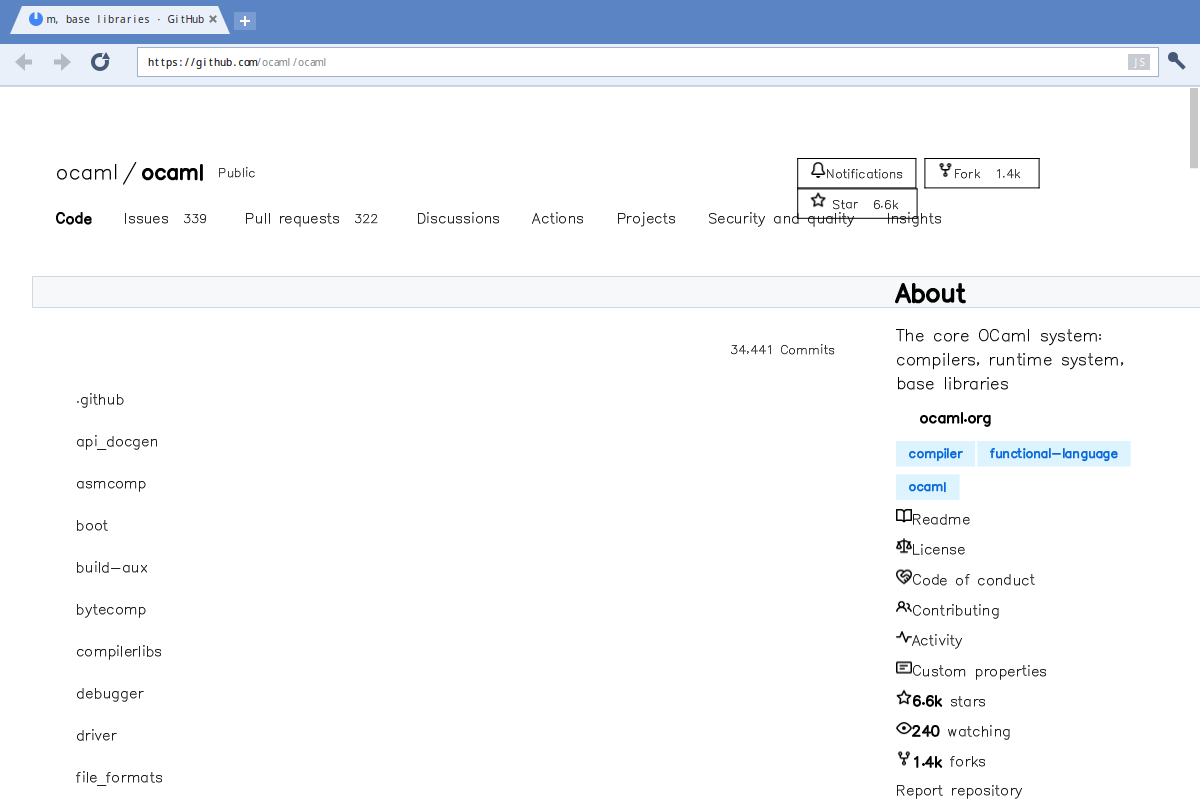
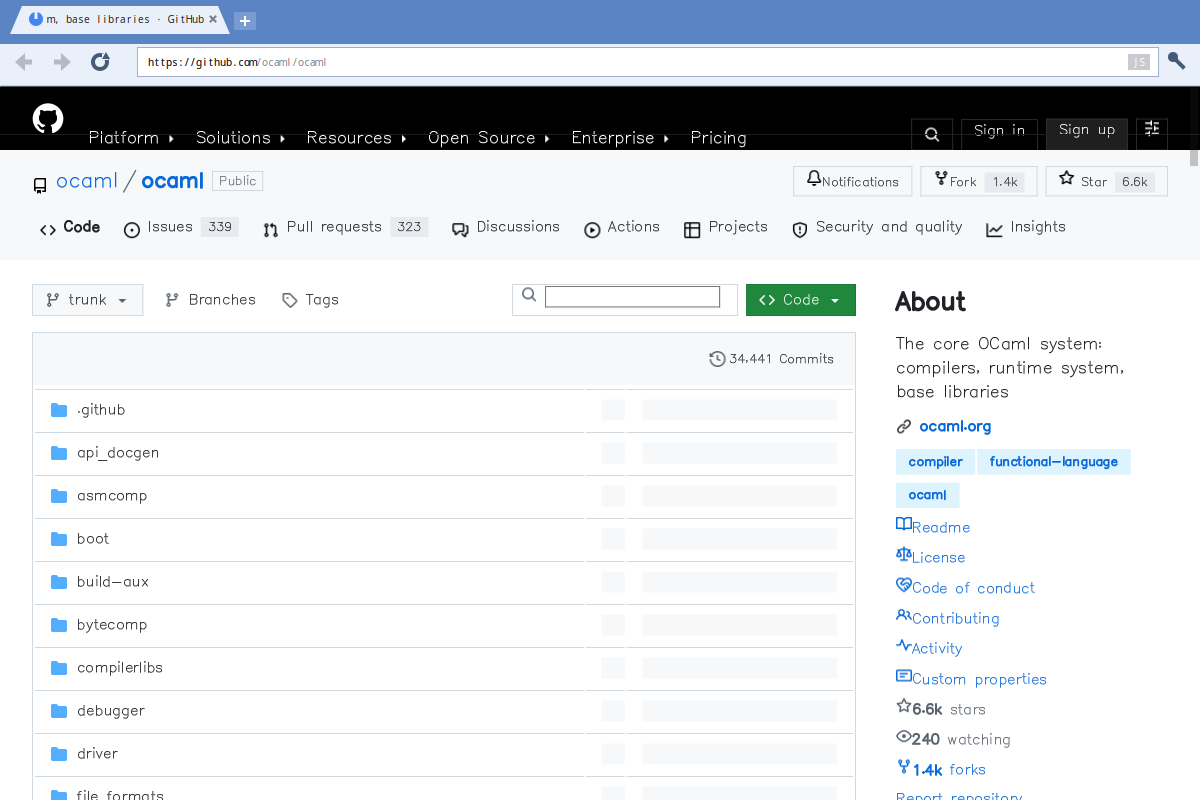
GitHub's repository page drawn right; Css_census, a Styles pane in a terminal
docs/plans/plan_sites.md, step 1. What was wrong, each shown first on
a page of ten lines:

- a custom property's name was put in lower case (--bgColor-default,
  never found by var(--bgColor-default)): the top bar, the borders,
  the links' colour, the table of files
- a float that fits its line to the last bit of a sum was put under
- a flex item's max-width in percents was asked again, of itself
- a width in percents inside what is being measured took the room: a
  flex item's (the branch's button), a form control's (the search)
- an svg or an img that is a flex or grid item was an empty box
- a colour's opacity was mixed with white (#ffffff1f on a black bar)
- a flex item's content minimum is kept under its max-width (README)

scripts/css/Css_census.exe: what a saved page's sheets ask that the
engine does not do; and at=SELECTOR, an element's winning rules and
what its style and its ancestors' come to.

plan_sites.md: progress, and a first look at YouTube and Gmail with
their scripts (what stops each).

diff --git a/docs/sites.md b/docs/sites.md
@@ -25,8 +25,8 @@ then look at the pictures and correct the rows.
 
 | | Sites | |
 |---|---|---|
-| 🟢 | 8 of 17 | the web of the 1990s, the text-only sites, Hacker News, Wikipedia |
-| 🟡 | 6 of 17 | DuckDuckGo, Lobsters, GitHub, Berkshire Hathaway, BBC News: readable, not right; tinybox: it runs, slowly |
+| 🟢 | 9 of 17 | the web of the 1990s, the text-only sites, Hacker News, Wikipedia, GitHub |
+| 🟡 | 5 of 17 | DuckDuckGo, Lobsters, Berkshire Hathaway, BBC News: readable, not right; tinybox: it runs, slowly |
 | 🔴 | 3 of 17 | one that does not load (TLS 1.2 only), one that asks every visitor to sign in, and Google: its page shows, a search does not |
 
 By part, what holds the most sites back, the worst first:
@@ -61,7 +61,7 @@ Oldest web first, then by how much they ask.
 | **DuckDuckGo** (the HTML results) | 🟡 | 🟢 searched from the omnibox; its own form not tried | 🟢 | 🟢 | 🟡 the header's logo, field and filters overlap; the results are readable | 🟢 | ⚪ |
 | **Google** | 🔴 the home page shows, a search does not | 🔴 a query can be typed and sent, and the consent page answered (a form posted, its cookie kept); then a page of script only | 🟢 | 🟢 | 🟢 flexbox | 🟢 | 🔴 a search answers our browser with a challenge: an obfuscated program (63 KB) that must compute a token before any result is sent. It loads and runs here without an error, and gives no token. Said to be an old Opera Mini, the browser was sent plain results by one path (the consent refused) and a 403 by the other (accepted): tried, and taken out (`Browser_agent.mli`) |
 | **old.reddit.com** | 🔴 a blank page | 🔴 | 🟡 redirected to a sign-in page: every visitor not signed in is, a real browser's too (curl with Chrome's name: the same 302) | ? | 🔴 nothing shows | ? | 🔴 not run |
-| **GitHub** (a repository) | 🟡 | 🟢 the files, the About pane beside them, the tabs and the README can be read and followed | 🟢 24 requests | 🟢 | 🟡 the page's two columns are right (its `@media (width >= 48rem)`); the top bar is blank, the branch button an empty bar, the files have no icon, message or date | 🟢 | 🟡 with `scripts=github.com` its modules load through the page's import map and run (107 files); three then stop on what is not here (custom elements with a shadow tree, a `DataView` over a typed array), and each file's last commit, which they fetch, does not come |
+| **GitHub** (a repository) | 🟢 | 🟢 the files, the About pane beside them, the tabs and the README can be read and followed | 🟢 34 requests | 🟢 | 🟢 as Chrome draws it with scripts off (2026-10-04): the dark top bar, the tabs and buttons with their icons, the branch's bar, the files with theirs, the README in its box. Not there: rounded corners, each file's last commit (its scripts') | 🟢 | 🟡 with `scripts=github.com` its modules load through the page's import map and run (107 files); three then stop on what is not here (custom elements with a shadow tree, a `DataView` over a typed array), and each file's last commit, which they fetch, does not come |
 | **BBC News** | 🟡 | 🟢 the front page reads as one: the lead, the rows of stories, the side column, each a link | 🟢 23 requests | 🟢 | 🟡 its grid of twelve columns is right (`grid-column: 1 / span 4`), the menu folded (`<details>`); the "LIVE" badge is over its headline, the page not centred | 🟢 | 🟡 with `scripts=www.bbc.com,static.files.bbci.co.uk` its fifty files all parse and load (6 s of CPU), and React then fails to take the page over (styled-components wants a style sheet's object): nothing lost, the page came whole. Its pictures are WebP, and show (`libs/images`) |
 | **tinybox** (the Playground's menu and games: OCaml compiled to JavaScript by js_of_ocaml, a page that is one `<svg>` redrawn each frame) | 🟡 | 🟡 the menu answers to the keys and the mouse, a game opens and is played; five frames a second where a browser gives sixty, so a key tapped between two can be missed, and the games' sound has gaps | 🟢 | 🟢 | 🟢 a fixed svg, 100% of the window | 🟢 the Playground's own letters | 🟡 931 KB of script run with no error, slowly (170 ms a frame); no canvas (the code map's panel, bitmaps), no bytes from a request |
 

diff --git a/docs/plans/plan_sites.md b/docs/plans/plan_sites.md
@@ -160,6 +160,69 @@ what a site sends for it (`Browser_agent`'s table and its reasons).
 
 Not planned: ChatGPT, Gmail, YouTube's video, chess.com's board.
 
+## Progress
+
+**2026-10-04, step 1: GitHub's repository page is drawn right**,
+scripts off (`docs/screenshots/github.png`). The census tool is
+`scripts/css/Css_census.exe`; its second mode (`at=SELECTOR`: an
+element's winning rules, and what its style and its ancestors' come
+to) is what found each fault. None was a missing property:
+
+- a custom property's name was put in lower case (`--bgColor-default`
+  never found by `var(--bgColor-default)`): the top bar, the borders,
+  the links' colour, the table;
+- six faults of layout, each shown first on a page of ten lines
+  (`changes.txt`): a float's fit to the last bit, a percent
+  `max-width` asked of the item itself, percents inside what is being
+  measured (a button, a field), an svg as a flex item, a colour's
+  opacity, a flex item's minimum over its maximum.
+
+The census's own list (`order`, `:has()`, `clip-path`,
+`text-overflow`, `@container`, `color-mix()`) was not needed for this
+page: to do when a page shows the lack. A saved copy of the page with
+its sheets beside it, served by `mini-httpd`, is the bench: the real
+site's sheets are refused to a page of another origin.
+
+**2026-10-04, YouTube and Gmail, a first look with their scripts.**
+Asked for as the aim, however far: two sites used by everybody are
+the best bench a browser has. What was learned in an evening:
+
+- *YouTube's page can be run without a window*: its nine scripts put
+  in the page (12 MB, the main one 10.8 MB) are read and run by
+  `scripts/js/Page_scripts.exe` in 5.4 s. The engine's speed is not
+  what stops it first.
+- *What stops it* is the first of a long chain, each found only once
+  the one before is passed: `NodeFilter`, `CSSStyleSheet` and its
+  `replaceSync`, then the polyfill of web components patching
+  prototypes we do not have (`HTMLSlotElement`), then Polymer itself.
+  Of the names its bundles use, 49 are not defined here; the ones
+  that matter: `CustomElementRegistry`, `Request`, `Response`,
+  `ReadableStream`, `MessageChannel`, `Worker`, `MediaSource`,
+  `IntersectionObserverEntry`, `DOMException`, `History`.
+- *The page is its custom elements*: `<ytd-app>` and hundreds under
+  it, each a class given to `customElements.define`, with a shadow
+  tree or Polymer's emulation of one. Without them nothing is drawn
+  but the skeleton the server sends. So the road is, in order:
+  **custom elements** (the registry, an element upgraded when its
+  name is defined, its callbacks when it enters the page), **shadow
+  trees** (`attachShadow`, slots, the tree the layout sees made of
+  both), **templates** (`<template>`'s content, cloned), **observers
+  that observe**. GitHub's own elements and 9fans.topicbox need the
+  first three too: it is the same work, and the next one to do.
+- *Then the video*, which is another matter (Media Source Extensions
+  and a decoder of VP9 or AV1): the application drawn with its
+  thumbnails and titles is the mark to aim at; the player is not.
+- *Gmail*: Google's sign-in page is drawn with its scripts (the
+  address's field, Next). What comes after an address is typed was
+  not tried: it needs an account, and is where Google decides
+  whether it knows the browser.
+
+A way to work that does not cost the budget: what a web API is
+that needs nothing of the engine's insides is written in JavaScript
+(`data/prelude/web.js`, as `AudioContext`'s class is), and the
+engine gets only the hooks (an element entering the tree, a shadow
+root's place in the tree that is laid out).
+
 ## Cost
 
 The budget has 5,545 lines left of 40,000. Step 1 is 300 to 600

diff --git a/scripts/README.md b/scripts/README.md
@@ -17,6 +17,13 @@ use it; the techniques behind them are in
   - `screenshots.sh`: the README's pictures (`docs/screenshots/`)
     taken again: Hacker News, Wikipedia, GitHub and three built-in
     pages, each window dumped once its page has settled
+- `css/`: what real style sheets ask of the CSS engine
+  - `Css_census.exe`: a saved page and its sheets read by the engine's
+    own parser and cascade: the at-rules it skips, the selectors it
+    does not read, the properties that change nothing for any element
+    of the page; and, with `at=SELECTOR`, one element's winning rules
+    and what its style and its ancestors' come to -- a Styles pane in
+    a terminal (`Css_census.mli`; `docs/plans/plan_sites.md`)
 - `js/`: what real scripts ask of the JavaScript engine
   - `Js_survey.exe`: each script given parsed, then run in an empty
     page; its first mistake, and the mistakes counted; a library then
